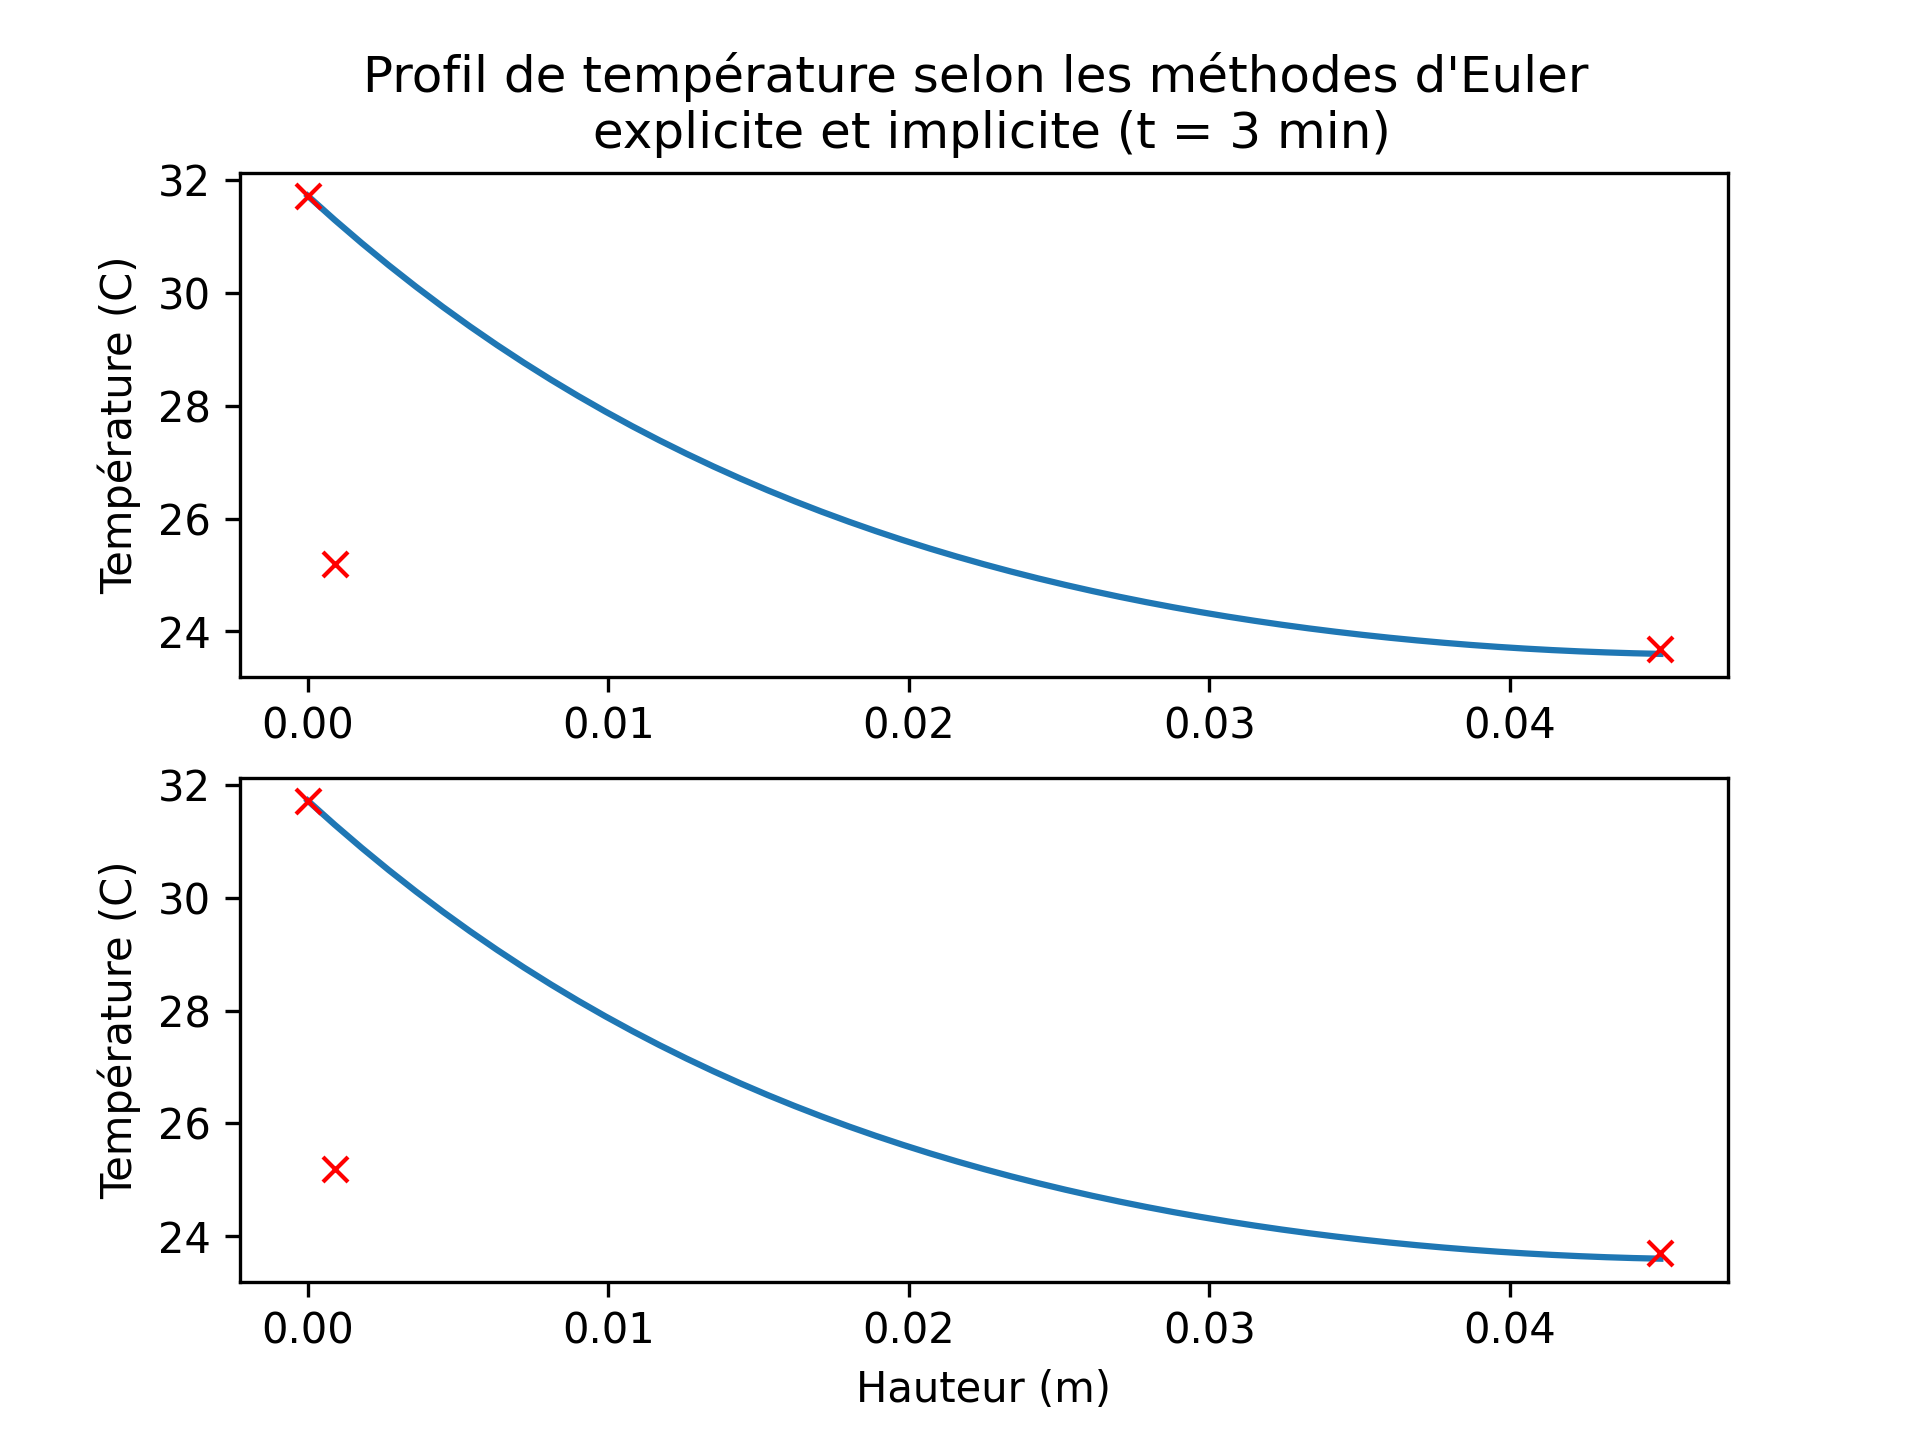
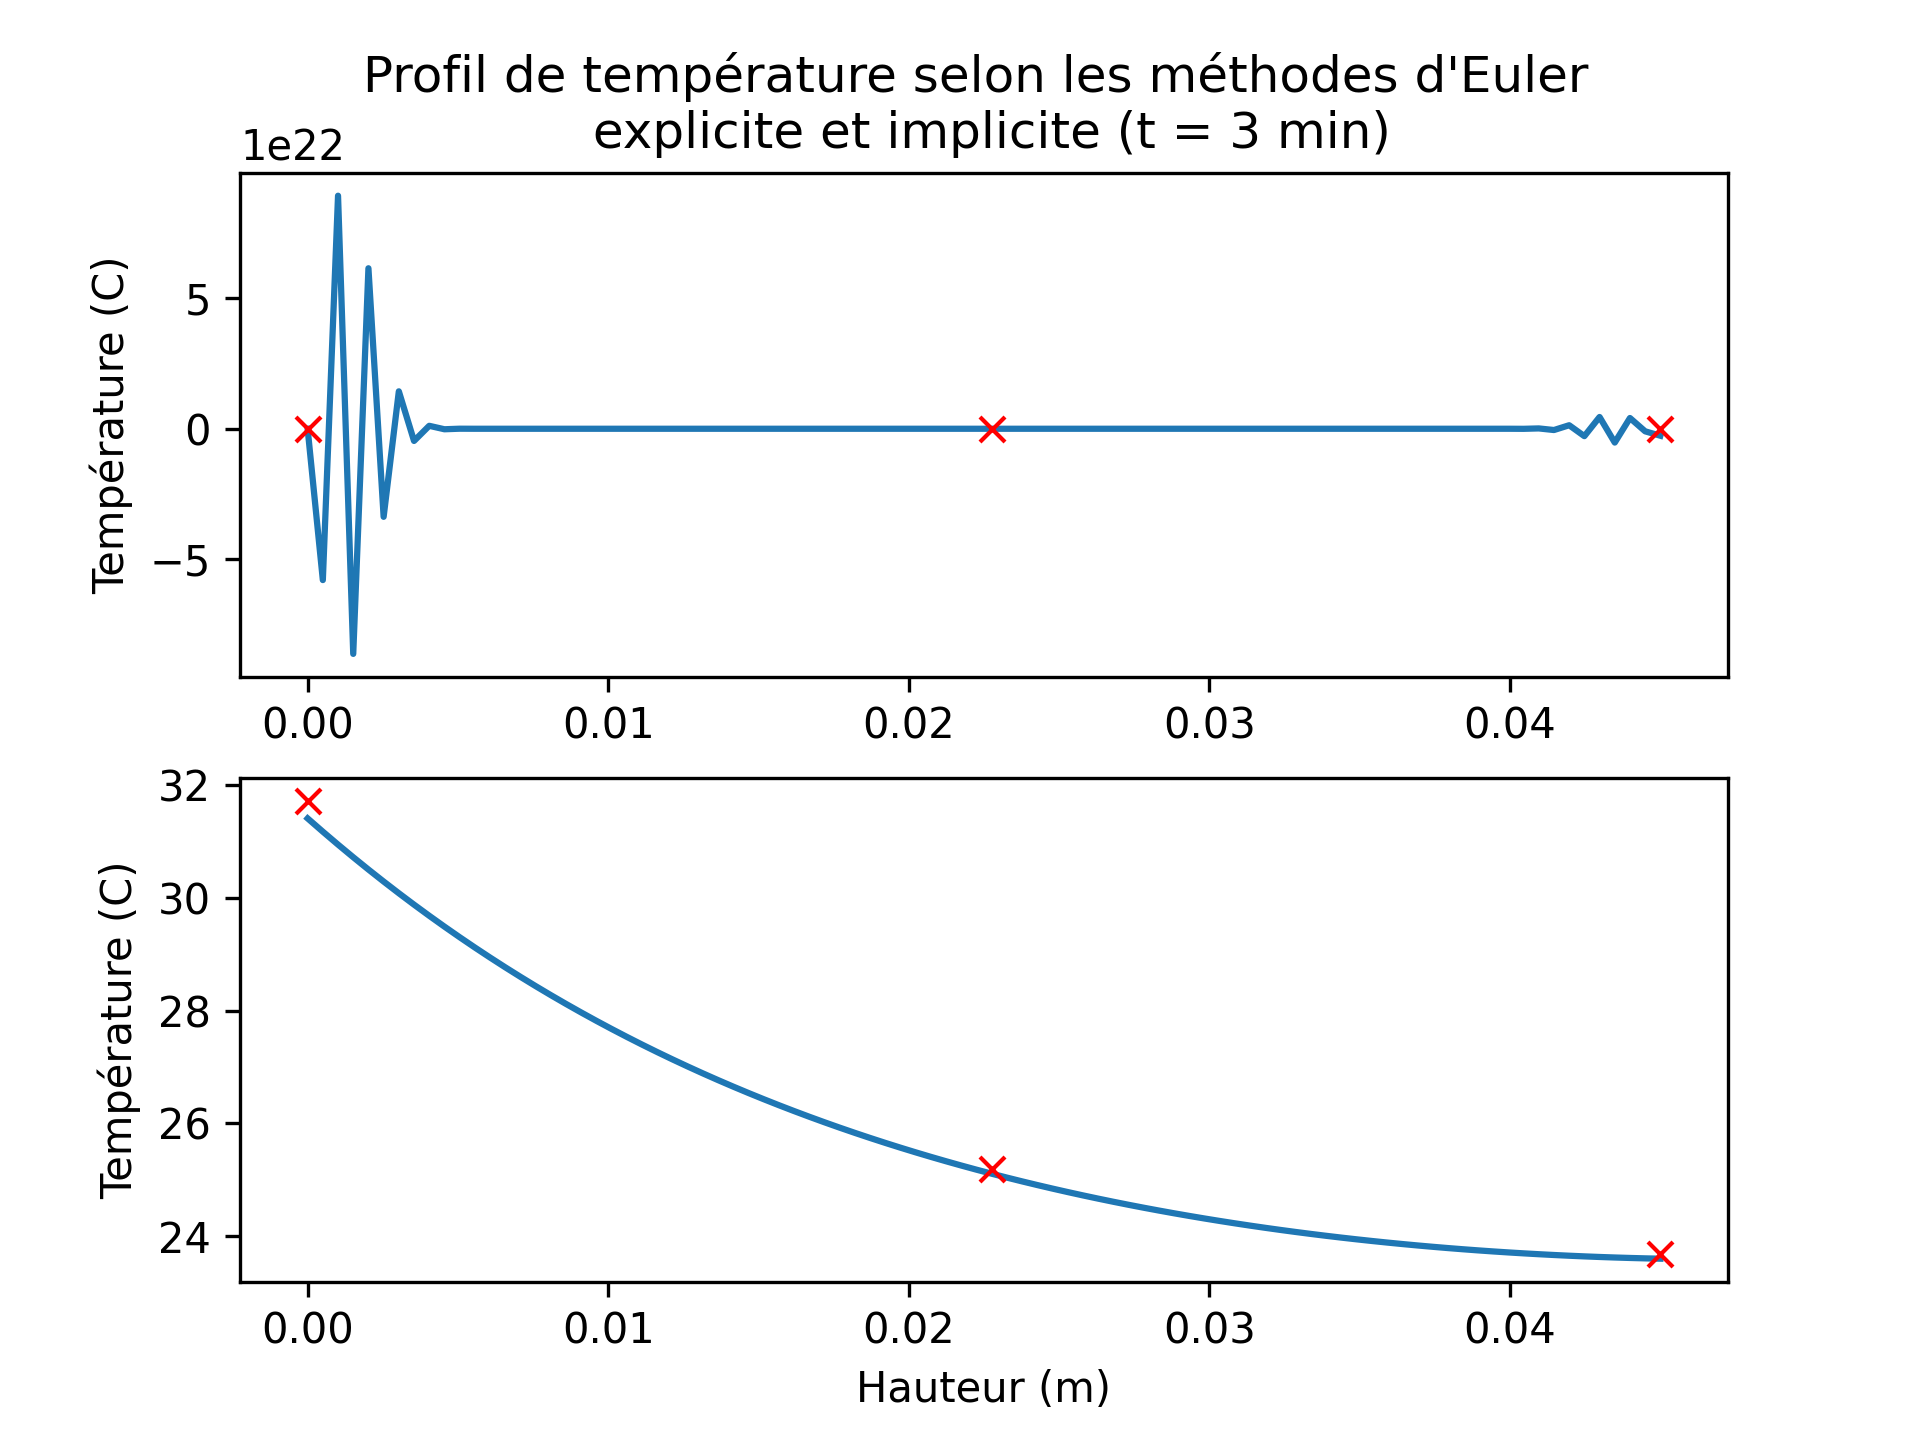
f

diff --git a/Resolution.py b/Resolution.py
@@ -15,19 +15,20 @@ from CI import *
 """Définition des paramètres"""
 
 class parametres():
-    Cp = 1025          # Capacité thermique massique [J/(kg*K)]
-    k = 1.525            # Conductivité thermique 
-    n = 51          # Nombre de noeuds
+    Cp = 1021          # Capacité thermique massique [J/(kg*K)]
+    k = 1.52            # Conductivité thermique 
+    n = 90         # Nombre de noeuds
     rho = 1.07*10**3   # Masse volumique [kg/m^3]
     h = 10           # Coefficient de convection [W/m^2*K]
     H = 0.045           # Hauteur de la pâte [m]
     dz = H/(n-1)         # Discrétisation dans l'espace [m]
     ti=60               # Temps initial [s]
     tf=180               # Temps final[s]
-    dt = 0.1         # Discrétisation en temps [s]
+    dt = 10         # Discrétisation en temps [s]
     Tair= 22              # Température de l'air [C]
 
 prm = parametres()
+a = int(prm.n / 2)
 """Appel des conditions initiales"""
 T_i = CI(prm)
 T_f = CFI(prm)
@@ -52,7 +53,7 @@ ax_1[0].set_title('Profil de température selon les méthodes d\'Euler \n explic
 #x_1[0].set_xlabel('Hauteur (m)')
 ax_1[0].set_ylabel('Température (C)')
 ax_1[0].plot(x[0],31.73,'rx')
-ax_1[0].plot(x[1],25.19,'rx')
+ax_1[0].plot(x[a],25.19,'rx')
 ax_1[0].plot(x[-1],23.69,'rx')
 
 ax_1[1].plot(x,T_f_imp[-1,:])
@@ -60,54 +61,7 @@ ax_1[1].plot(x,T_f_imp[-1,:])
 ax_1[1].set_xlabel('Hauteur (m)')
 ax_1[1].set_ylabel('Température (C)')
 ax_1[1].plot(x[0],31.73,'rx')
-ax_1[1].plot(x[1],25.19,'rx')
+ax_1[1].plot(x[a],25.19,'rx')
 ax_1[1].plot(x[-1],23.69,'rx')
 
 plt.savefig('profil_température.png', dpi=300)
-
-"""Figure de la résolution numérique avec la méthode d'Euler \n aux points expérimentaux"""
-fig,ax=plt.subplots(2,3)
-
-ax[0,0].plot(t,T_f_exp[:,0])
-ax[0,0].set_title('Méthode d\'Euler explicite ; z = 0')
-ax[0,0].set_ylabel('Température (C)')
-#ax[0,0].set_xlabel('Temps (s)')
-ax[0,0].plot(t[0],27.92,'rx')
-ax[0,0].plot(t[-1],31.73,'rx')
-
-ax[0,1].plot(t,T_f_exp[:,1])
-ax[0,1].set_title('Méthode d\'Euler explicite ; z = 22.5 mm')
-ax[0,1].set_ylabel('Température (C)')
-#ax[0,1].set_xlabel('Temps (s)')
-ax[0,1].plot(t[0],24.01,'rx')
-ax[0,1].plot(t[-1],25.19,'rx')
-
-ax[0,2].plot(t,T_f_exp[:,-1])
-ax[0,2].set_title('Méthode d\'Euler explicite ; z = 45 mm')
-ax[0,2].set_ylabel('Température (C)')
-#ax[0,2].set_xlabel('Temps (s)')
-ax[0,2].plot(t[0],23.12,'rx')
-ax[0,2].plot(t[-1],23.69,'rx')
-
-ax[1,0].plot(t,T_f_imp[:,0])
-ax[1,0].set_title('Méthode d\'Euler implicite ; z = 0')
-ax[1,0].set_ylabel('Température (C)')
-ax[1,0].set_xlabel('Temps (s)')
-ax[1,0].plot(t[0],27.92,'rx')
-ax[1,0].plot(t[-1],31.73,'rx')
-
-ax[1,1].plot(t,T_f_imp[:,1])
-ax[1,1].set_title('Méthode d\'Euler implicite ; z = 22.5 mm')
-ax[1,1].set_ylabel('Température (C)')
-ax[1,1].set_xlabel('Temps (s)')
-ax[1,1].plot(t[0],24.01,'rx')
-ax[1,1].plot(t[-1],25.19,'rx')
-
-ax[1,2].plot(t,T_f_imp[:,-1])
-ax[1,2].set_title('Méthode d\'Euler implicite ; z = 45 mm')
-ax[1,2].set_ylabel('Température (C)')
-ax[1,2].set_xlabel('Temps (s)')
-ax[1,2].plot(t[0],23.12,'rx')
-ax[1,2].plot(t[-1],23.69,'rx')
-
-plt.savefig('Points_expérimentaux.png', dpi=300)

diff --git a/Stabilite.py b/Stabilite.py
@@ -14,8 +14,8 @@ from Euler_implicite import *
 """Définition des paramètres du problème"""
 class parametres():
     
-    Cp = 1025        # Capacité thermique massique [J/(kg*K)]
-    k = 1.525             # Conductivité thermique [W/(m*K)]
+    Cp = 1000        # Capacité thermique massique [J/(kg*K)]
+    k = 1.9             # Conductivité thermique [W/(m*K)]
     n = 11               # Nombre de noeuds
     rho = 1.07*10**3   # Masse volumique [kg/(m^3)]
     h = 10              # Coefficient de convection [W/(m^2*K)]
@@ -23,7 +23,7 @@ class parametres():
     dz = H/(n-1)        # Discrétisation de l'espace [m]
     ti = 60             #r Temps initial [s]
     tf = 180            # Temps final [s]
-    dt = 1            # Discrétisation du temps [s]
+    dt = 0.25            # Discrétisation du temps [s]
     Tair = 22           # Température de l'air ambient [C]
 
 prm = parametres()
@@ -31,10 +31,10 @@ prm = parametres()
 """Méthode d'Euler explicite"""
 
 """Création de l'espace des valeurs de dz"""
-espace_dz = np.linspace(0,prm.H,prm.n)
+espace_dz = np.linspace(0,prm.dz,prm.n)
 
 """Création de l'espace des valeurs de dt"""
-espace_dt = np.linspace(0,prm.ti,prm.n)
+espace_dt = np.linspace(0,prm.dt,prm.n)
 
 """Création de l'espace des valeurs de stabilité"""
 espace_stabilite = np.zeros([len(espace_dt), len(espace_dz)])
@@ -54,4 +54,6 @@ ax.set_title('Stabilité de la méthode d\'Euler explicite')
 ax.set_ylabel('Temps discrétisé')
 ax.set_xlabel('Espace discrétisé')
 ax.set_zlabel('Valeur de stabilité')
+
+plt.savefig('Stabilité_Euler_exp.png', dpi = 300)
 

diff --git a/Optimisation.py b/Optimisation.py
@@ -13,7 +13,7 @@ class parametres():
     
     Cp = 1000           # Capacité thermique massique [J/(kg*K)]
     k = 0.9             # Conductivité thermique [W/(m*K)]   
-    n = 30               # Nombre de noeuds
+    n = 11               # Nombre de noeuds
     rho = 1.07*10**3   # Masse volumique [kg/(m^3)]
     h = 10              # Coefficient de convection [W/(m^2*K)]
     H = 0.045           # Hauteur de la pâte [m]
@@ -22,12 +22,12 @@ class parametres():
     tf=180              # Temps final [s]
     dt = 0.1            # Discrétisation du temps [s]
     Tair= 22            # Température de l'air ambient [C]
+    N = 30              # Nombre de valeurs dans les domaines de Cp et de k
 
 prm = parametres()
-
 """Génération des espaces-solutions pour la méthode d'Euler explicite et la méthode d'Euler implicite"""
-espace_cp = np.linspace(1000,1200,prm.n)
-espace_k = np.linspace(0.9,1.9,prm.n)
+espace_cp = np.linspace(1000,1200,prm.N)
+espace_k = np.linspace(0.9,1.9,prm.N)
 
 espace_solution_exp = np.zeros([len(espace_cp),len(espace_k)])
 espace_solution_imp = np.zeros([len(espace_cp),len(espace_k)])
